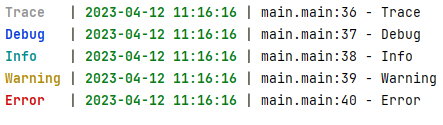
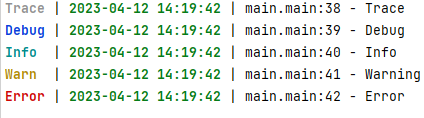
精简代码，修改显示样式

diff --git a/glog/glog.go b/glog/glog.go
@@ -1,6 +1,10 @@
 package glog
 
-import "io"
+import (
+	"io"
+	"path"
+	"runtime"
+)
 
 // 日志级别
 const (
@@ -39,5 +43,57 @@ type CallerDetail struct {
 	FileName string // 调用文件名
 }
 
-// DefaultLogger 默认记录器
-var DefaultLogger = NewLogger(DefaultConfig)
+// NewLogger 创建记录器
+func NewLogger(config *Config) (logger *Logger) {
+	logger = new(Logger)
+
+	// 对配置进行判断
+	if config.Formatter == nil {
+		config.Formatter = DefaultConfig.Formatter
+	}
+	if config.Formatter.TimeFormat == "" {
+		config.Formatter.TimeFormat = DefaultConfig.Formatter.TimeFormat
+	}
+	if config.Formatter.TimeColor == nil {
+		config.Formatter.TimeColor = DefaultTimeColor
+	}
+	if config.Formatter.TraceColor == nil {
+		config.Formatter.TraceColor = DefaultTraceColor
+	}
+	if config.Formatter.DebugColor == nil {
+		config.Formatter.DebugColor = DefaultDebugColor
+	}
+	if config.Formatter.InfoColor == nil {
+		config.Formatter.InfoColor = DefaultInfoColor
+	}
+	if config.Formatter.WarningColor == nil {
+		config.Formatter.WarningColor = DefaultWarningColor
+	}
+	if config.Formatter.ErrorColor == nil {
+		config.Formatter.ErrorColor = DefaultErrorColor
+	}
+	if config.Formatter.FatalColor == nil {
+		config.Formatter.FatalColor = DefaultFatalColor
+	}
+	if config.Formatter.PanicColor == nil {
+		config.Formatter.PanicColor = DefaultPanicColor
+	}
+	logger.Config = config
+
+	return
+}
+
+// GetCallerDetail 获取调用者的信息
+func GetCallerDetail(deep int) (callerDetail *CallerDetail) {
+	callerDetail = new(CallerDetail)
+
+	pc, file, line, ok := runtime.Caller(deep) // 返回调用堆栈、文件、调用行号，这里的 deep 是堆栈深度
+	if ok {
+		callerDetail.Name = runtime.FuncForPC(pc).Name()
+		callerDetail.Line = line
+		callerDetail.FilePath = file
+		callerDetail.FileName = path.Base(file)
+	}
+
+	return
+}

diff --git a/glog/formatter.go b/glog/formatter.go
@@ -42,3 +42,73 @@ func (c *ColorFormatter) format(s string) string {
 
 	return fmt.Sprintf("\033[%d%s%sm%s\033[0m", c.Model, foregroundColor, backgroundStr, s)
 }
+
+// prefix 输出格式化的前缀
+func prefix(logger *Logger, level int, timeNow string, color bool) string {
+	// 格式化时间戳
+	if color {
+		timeNow = logger.Config.Formatter.TimeColor.format(timeNow)
+	}
+
+	// 格式化日志级别
+	var levelStr string
+
+	switch level {
+	case TraceLevel:
+		if color {
+			levelStr = logger.Config.Formatter.TraceColor.format("Trace")
+		} else {
+			levelStr = "Trace"
+		}
+	case DebugLevel:
+		if color {
+			levelStr = logger.Config.Formatter.DebugColor.format("Debug")
+		} else {
+			levelStr = "Debug"
+		}
+	case InfoLevel:
+		if color {
+			levelStr = logger.Config.Formatter.InfoColor.format("Info") + " "
+		} else {
+			levelStr = "Info" + " "
+		}
+	case WarningLevel:
+		if color {
+			levelStr = logger.Config.Formatter.WarningColor.format("Warn") + " "
+		} else {
+			levelStr = "Warn" + " "
+		}
+	case ErrorLevel:
+		if color {
+			levelStr = logger.Config.Formatter.ErrorColor.format("Error")
+		} else {
+			levelStr = "Error"
+		}
+	case FatalLevel:
+		if color {
+			levelStr = logger.Config.Formatter.FatalColor.format("Fatal")
+		} else {
+			levelStr = "Fatal"
+		}
+	case PanicLevel:
+		if color {
+			levelStr = logger.Config.Formatter.PanicColor.format("Panic")
+		} else {
+			levelStr = "Panic"
+		}
+	default:
+		if color {
+			levelStr = logger.Config.Formatter.InfoColor.format("Unknow")
+		} else {
+			levelStr = "Unknow"
+		}
+	}
+
+	// 构造出
+	callerDetail := GetCallerDetail(5)
+
+	// 构造输出前缀字符
+	outStr := fmt.Sprintf("%s | %s | %s:%d - ", levelStr, timeNow, callerDetail.Name, callerDetail.Line)
+
+	return outStr
+}

diff --git a/demo.go b/demo.go
@@ -2,7 +2,6 @@ package main
 
 import (
 	"github.com/Leviathangk/go-glog/glog"
-	"os"
 )
 
 func main() {
@@ -19,21 +18,21 @@ func main() {
 	logger.Config.PrintLevel = glog.TraceLevel  // 默认是 debug 级别，这里修改
 	logger.Config.OutPutLevel = glog.TraceLevel // 默认是 debug 级别，这里修改
 
-	// AddOutPut
-	file, _ := os.OpenFile("demo.log", os.O_CREATE|os.O_WRONLY|os.O_APPEND, 0666)
-	logger.AddOutPut(file)
-
-	// AddHook：实现分类处理
-	errFile, _ := os.OpenFile("err.log", os.O_CREATE|os.O_WRONLY|os.O_APPEND, 0666)
-
-	logger.AddHook(func(level int, out string) {
-		if level == glog.ErrorLevel {
-			_, err := errFile.Write([]byte(out))
-			if err != nil {
-				return
-			}
-		}
-	})
+	//// AddOutPut
+	//file, _ := os.OpenFile("demo.log", os.O_CREATE|os.O_WRONLY|os.O_APPEND, 0666)
+	//logger.AddOutPut(file)
+	//
+	//// AddHook：实现分类处理
+	//errFile, _ := os.OpenFile("err.log", os.O_CREATE|os.O_WRONLY|os.O_APPEND, 0666)
+	//
+	//logger.AddHook(func(level int, out string) {
+	//	if level == glog.ErrorLevel {
+	//		_, err := errFile.Write([]byte(out))
+	//		if err != nil {
+	//			return
+	//		}
+	//	}
+	//})
 
 	// 正常使用：默认 logger 可以直接使用 glog.Debugln()
 	logger.Traceln("Trace")

diff --git a/glog/default.go b/glog/default.go
@@ -1,6 +1,9 @@
 // Package glog 控制台输出学习链接：https://zhuanlan.zhihu.com/p/76751728
 package glog
 
+// DefaultLogger 默认记录器
+var DefaultLogger = NewLogger(DefaultConfig)
+
 // DefaultConfig 默认配置
 var DefaultConfig = &Config{
 	Print:       true,
@@ -67,7 +70,7 @@ var DefaultErrorColor = &ColorFormatter{
 // DefaultFatalColor Fatal 级别默认显示的颜色
 var DefaultFatalColor = &ColorFormatter{
 	Model:           1,    // 显示模式
-	ForegroundColor: "36", // 前景色
+	ForegroundColor: "30", // 前景色
 	BackgroundColor: "",   // 背景色
 }
 

diff --git a/README.md b/README.md
@@ -4,9 +4,8 @@
 主要是简化使用
 
 效果图：颜色可自定义  
-![img.png](img.png)
 # 安装
-
+![img.png](img.png)
 ```
 go get -u github.com/Leviathangk/go-glog@latest
 ```
